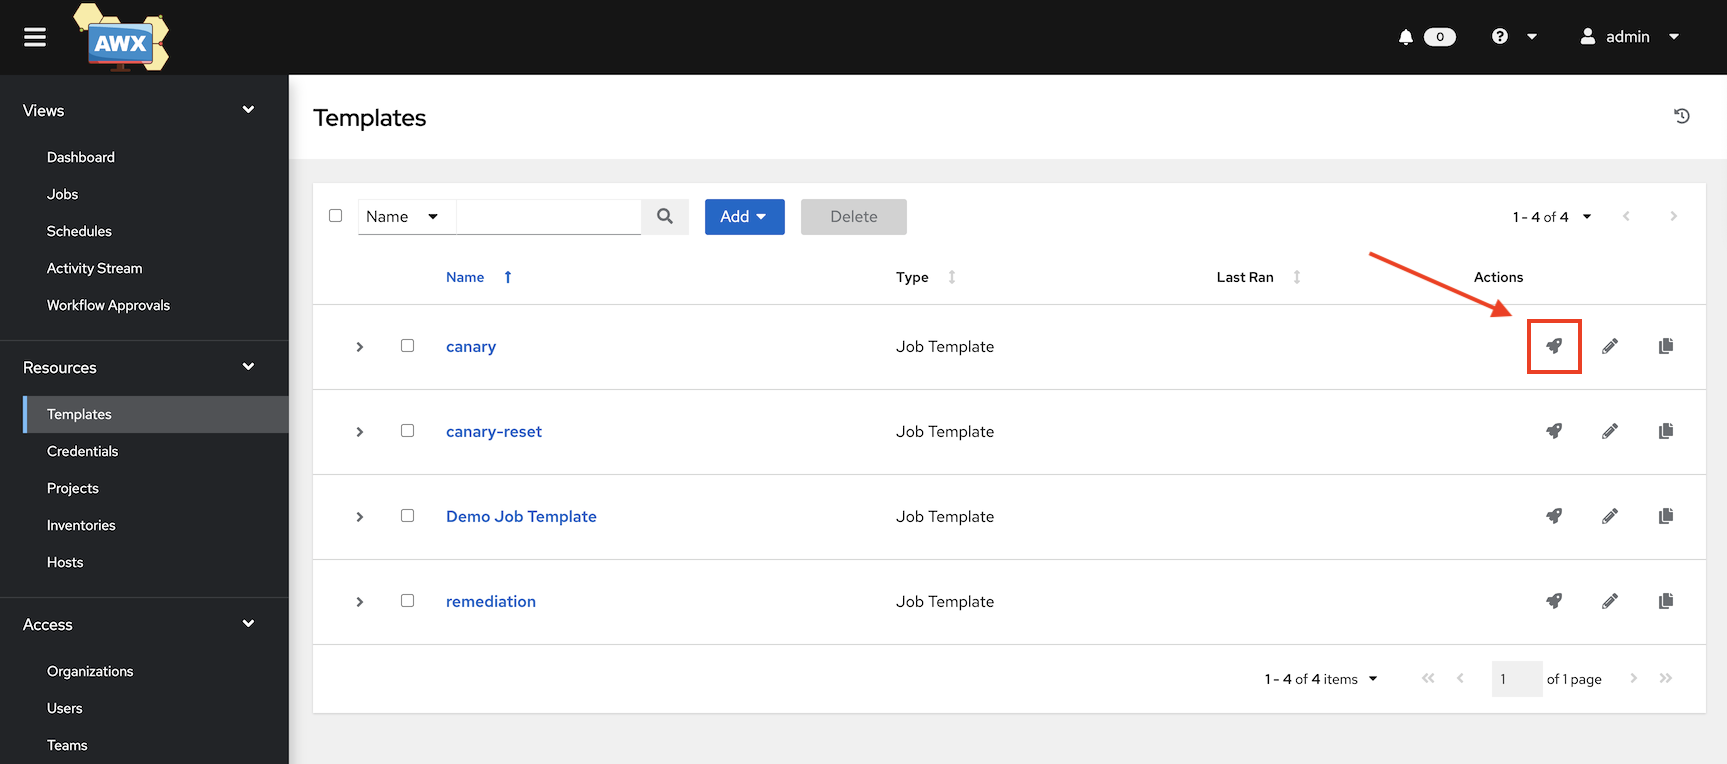
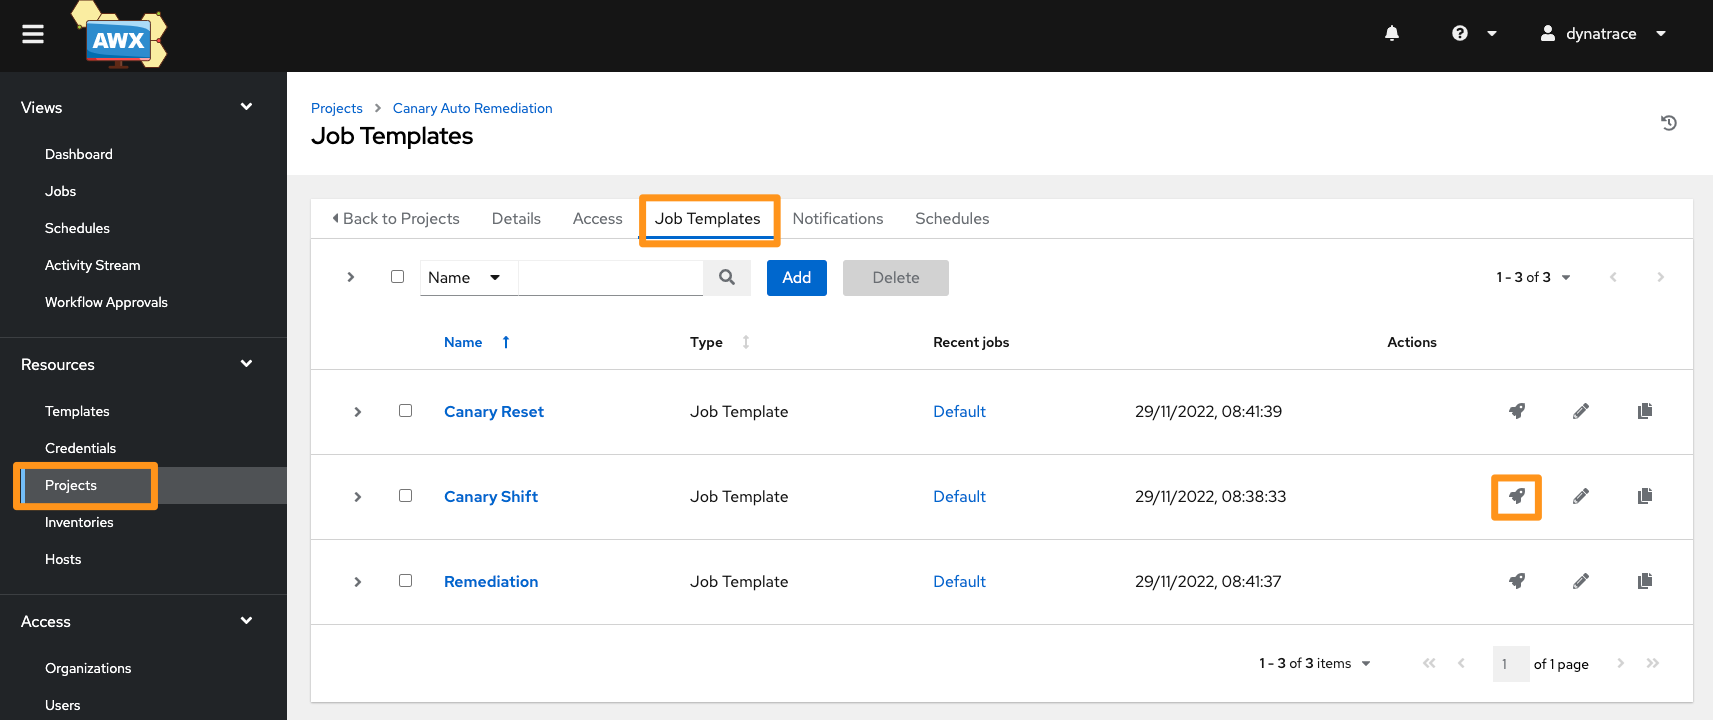
auto remediation demo improvements (#358)

diff --git a/user-skel/ansible/roles/demo-auto-remediation-ansible/files/repos/ace-demo-canary-docs/05-inspection/Readme.md b/user-skel/ansible/roles/demo-auto-remediation-ansible/files/repos/ace-demo-canary-docs/05-inspection/Readme.md
@@ -12,14 +12,19 @@ When the Monaco pipeline is run earlier, a problem notification integration was 
 
 ![dynatrace_problem_notification](../assets/images/dynatrace_problem_notification.png)
 
-At this point, AWX is made aware of an issue but it doesn't know much about the root cause. That's why it reaches back out to Dynatrace to query recent configuration events that are associated with the service.
+
+At this point, AWX receives a Problem notification with an identified root cause. AWX then asks Dynatrace to give it more information about the root cause and the associated remediation action.
 
 Once an event and the corresponding remediation action were identified, the latter in form of a different AWX playbook is triggered. This playbook will revert the shift in traffic. 100% of the traffic is again routed to the healthy application version (*build 1*).
 
-Inevitably, the service's reponse time will increase, failure rate will decrease and eventually the problem is closed by Dynatrace.
+At this point, the service's failure rate will decrease and eventually the problem is closed by Dynatrace.
 
 ## 2. Root cause analysis
 
 As soon as a problem is opened, Dynatrace's AI starts analysing and corelating entities and events. Which allows us to easily identify a root cause for our issue:
 
 ![dynatrace_problem_rootcause](../assets/images/dynatrace_problem_rootcause.png)
+
+Note that Dynatrace ties the Configuration Change event that we have sent as part of our Canary Deployment as the root cause and has also linked the remediation action that AWX can execute.
+
+When organizations make changes to their application it is imperative that a remediation action is specified in case of issues.

diff --git a/user-skel/ansible/roles/demo-auto-remediation-ansible/files/repos/ace-demo-canary-docs/04-shift-traffic/Readme.md b/user-skel/ansible/roles/demo-auto-remediation-ansible/files/repos/ace-demo-canary-docs/04-shift-traffic/Readme.md
@@ -7,7 +7,8 @@ At the moment, the load generator is calling the service's ingress. Although bot
 ## 1. Use AWX to route traffic to the canary
 
 1. Go to AWX (see the dashboard for credentials)
-2. Under "Templates", launch "canary" with it's default settings
+2. Under "Projects", open the "Canary Auto Remediation" Project 
+3. Under "Job Templates", launch "Canary Shift" with it's default settings
 
     ![awx_template_canary](../assets/images/awx_template_canary.png)
 
@@ -27,3 +28,9 @@ This shift in traffic can also be inspected in Dynatrace:
     ![dynatrace_service_traffic_shift](../assets/images/dynatrace_service_traffic_shift.png)
 
 You can see that the request count for service *build 1* is steadily decreasing while simultaneously increasing for service *build 4*.
+
+Additionally, as part of our change management process, we also send events to Dynatrace highlighting this. This can be observed on the *Service* screen for `simplenodeservice` under *Events*:
+
+![dynatrace_service_events](../assets/images/dynatrace_service_events.png)
+
+In this event we also specify a potential backout plan, a remediation action in case that this change causes problems for our application and its users. This remediation action will later be leveraged for the auto remediation flow.

diff --git a/user-skel/ansible/roles/demo-auto-remediation-ansible/files/repos/ace-demo-canary-docs/Readme.md b/user-skel/ansible/roles/demo-auto-remediation-ansible/files/repos/ace-demo-canary-docs/Readme.md
@@ -16,11 +16,13 @@ Before getting started, let's let's familiarize ourselves with the demo setup.
 
 First, a dashboard has been deployed and is available at `http(s)://dashboard.<ingress domain>` . Basic auth credentials were provided at the end of the provisioning process. The dashboard is where you can find all relevant links and credentials.
 
-All code and docs have been made available in the *auto-remediation* organization on *Gitea* ( `http(s)://gitea.<ingress domain>/auto-remediation` ):
+All code and docs have been made available in the *demo* organization on *Gitea* ( `http(s)://gitea.<ingress domain>/demo` ):
 
 - ace-demo-canary contains all application source code, Jenkins pipelines and Monaco resources.
 - ace-demo-canary-awx contains playbooks which will be run from AWX.
 - ace-demo-canary-docs contains step-by-step instructions for the use case (the one you're probably reading right now).
+
+>Note: the name of the organization might be different depending on the deployment of the ace-box.
 
 *Jenkins* is our CI/CD tool of choice and is available at `http(s)://jenkins.<ingress domain>`. All pipelines that we use as part of this use case can be found in project "ace-demo-canary".
 

diff --git a/user-skel/ansible/roles/demo-auto-remediation-ansible/files/repos/ace-demo-canary-docs/03-generate-load/Readme.md b/user-skel/ansible/roles/demo-auto-remediation-ansible/files/repos/ace-demo-canary-docs/03-generate-load/Readme.md
@@ -6,7 +6,7 @@ Before detecting an issue, an issue most occur. We therefore start a load genera
 
 ## 1. Run Jenkins load generation pipeline
 
-1. Go to Jenkins, Project *ace-demo-canary*
+1. Go to Jenkins, Project *demo-auto-remediation*
 2. Trigger "4. Generate Load"
 
     ![jenkins_pipeline_load](../assets/images/jenkins_pipeline_load.png)
